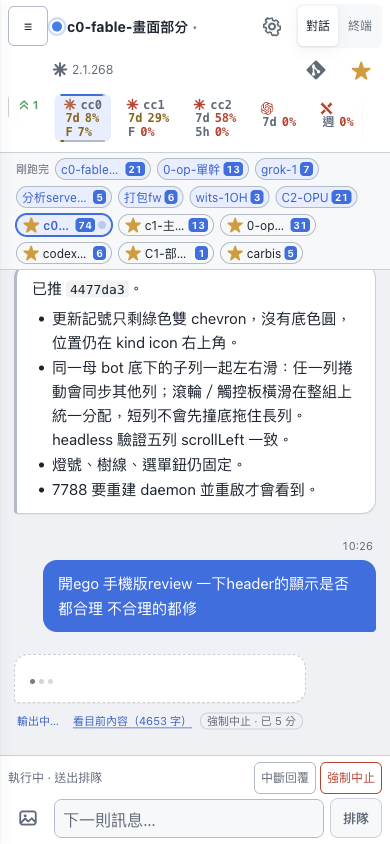
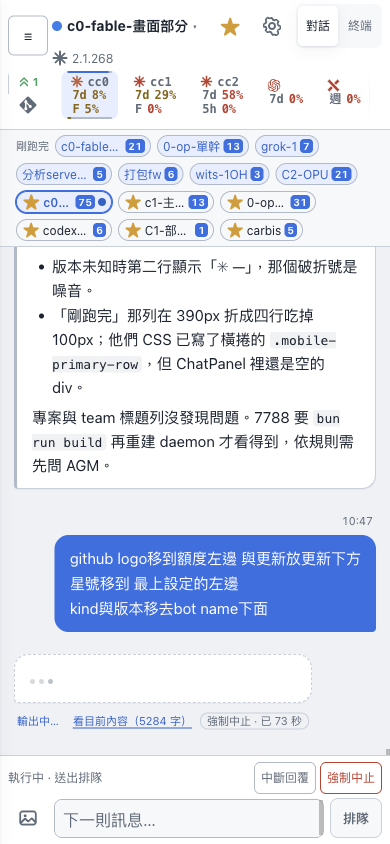
fix(web): 手機 bot 標題列改成使用者指定的位置——★ 在齒輪左邊、git 疊進額度列左下
第一行 ☰、名字、★、⚙、分頁；kind＋版本貼在名字下；git 鍵放額度列最左、「更新」chip
正下方。名字拿回約 150px，標題列高度維持 127px。★ 改成一律排在齒輪前面（桌機同順序），
手機那顆獨立的 PrimaryStar 由別人的 WIP hunk 帶走。

Claude-Session: https://claude.ai/code/session_011uw6Ks6LNLE2KQTyqRPK4w

diff --git a/web/src/components/mobileBotHead.css b/web/src/components/mobileBotHead.css
@@ -1,22 +1,22 @@
 /*
- * 手機（≤640px）bot 標題列的排位（2026-09-11，ego 390px 實測）。
+ * 手機（≤640px）bot 標題列的排位（2026-09-11，ego 390px 實測；同日使用者再調一次位置）。
  *
  * 問題：第一行擠了 ☰、名字、⚙、git、★、對話／終端 六樣，名字只剩 94px，
- * 兩顆 `c0-fable-…` 開頭的兄弟 bot 在標題列上完全分不出來；第二行卻只有
- * 「✳ 2.1.268」61px，右邊整段空著。
+ * 兩顆 `c0-fable-…` 開頭的兄弟 bot 在標題列上完全分不出來。
  *
- * 決策：git 與 ★ 搬到第二行右側（跟版本號同一行），第一行只留 ☰、名字＋⚙、分頁。
- * 名字拿回約 200px。這兩顆都不能砍——★ 只有標題列這一個入口，git 鍵是手機上
- * 開 repo／git／context 列的唯一入口——所以是「換行」不是「讓位」。
- * 齒輪留在名字旁邊：它是名字的設定，不是全域動作。
+ * 位置（使用者指定）：
+ * - 第一行：☰、名字、★、⚙、分頁。★ 在齒輪左邊。
+ * - 第二行：kind 圖示＋版本號，貼在名字底下。
+ * - 第三行：額度列。git 鍵放在額度列最左邊、「更新」chip 的正下方（兩個都是 32px 級的小鍵，
+ *   疊在 54px 高的額度列裡剛好）。
  *
  * 這個檔案只覆寫 `styles.css` 尾端 `.bot-head` 那組 grid 的格位；欄與列的定義也在這裡
- * 重寫一次，才能讓 git／★ 落到第二列。
+ * 重寫一次。
  */
 @media (width <= 640px) {
   .main-head.bot-head {
-    grid-template-columns: 40px minmax(0, 1fr) auto auto;
-    grid-template-rows: auto auto auto auto;
+    grid-template-columns: 40px minmax(0, 1fr) auto;
+    grid-template-rows: auto auto auto;
     gap: 2px 4px;
   }
 
@@ -26,9 +26,9 @@
     align-self: center;
   }
 
-  /* 名字＋齒輪，以及底下那行版本：跨第一、二列，靠上排，第一行跟分頁對齊。 */
+  /* 名字＋★＋齒輪，底下那行 kind＋版本：靠上排，第一行跟分頁對齊。 */
   .main-head.bot-head > .main-title {
-    grid-area: 1 / 2 / 3 / 3;
+    grid-area: 1 / 2;
     justify-content: flex-start;
   }
 
@@ -36,34 +36,53 @@
     min-height: 44px;
   }
 
+  /* ★ 是 `.main-title-row` 的子元素（ChatPanel 在手機把它放在齒輪前面），照 DOM 順序排即可。 */
+  .main-head.bot-head .main-title-row > .primary-star {
+    flex: none;
+    width: 36px;
+    min-width: 36px;
+  }
+
   .main-head.bot-head > .tabs {
-    grid-area: 1 / 3 / 2 / 5;
+    grid-area: 1 / 3;
     align-self: start;
     justify-self: end;
   }
 
+  .main-head.bot-head > .quota-strip {
+    grid-area: 2 / 1 / 3 / -1;
+    position: relative;
+  }
+
+  /* git 鍵疊進額度列左下角：「更新」chip 在左上（18px 高），它在下面。
+     跟齒輪同一種灰：常駐的入口不該長得像警示。 */
   .main-head.bot-head > .mobile-git-info {
-    grid-area: 2 / 3;
-    align-self: center;
-    /* 跟齒輪同一種灰：常駐的入口不該長得像警示。 */
+    grid-area: 2 / 1;
+    align-self: end;
+    justify-self: start;
+    position: relative;
+    z-index: 1;
+    width: 32px;
+    height: 32px;
+    min-width: 32px;
+    min-height: 32px;
+    padding: 2px;
+    margin: 0 0 2px 4px;
     color: var(--text-faint);
   }
 
-  .main-head.bot-head > .primary-star {
-    grid-area: 2 / 4;
-    align-self: center;
+  .main-head.bot-head > .mobile-git-info svg {
+    width: 18px;
+    height: 18px;
   }
 
-  /* 版本那行跟右邊 git／★ 的 40px 鍵垂直對齊。 */
-  .main-head.bot-head .mobile-bot-version {
-    min-height: 40px;
-  }
-
-  .main-head.bot-head > .quota-strip {
-    grid-area: 3 / 1 / 4 / -1;
+  /* 更新 chip 留在左上，底下讓給 git 鍵；chip 的右邊距要夠讓第一格額度不壓到 git。 */
+  .main-head.bot-head .quota-open > .quota-update {
+    align-self: flex-start;
+    margin-right: 14px;
   }
 
   .main-head.bot-head > .mobile-primary-row {
-    grid-area: 4 / 1 / 5 / -1;
+    grid-area: 3 / 1 / 4 / -1;
   }
 }

diff --git a/web/src/components/ChatPanel.tsx b/web/src/components/ChatPanel.tsx
@@ -1271,6 +1271,7 @@ export function ChatPanel({ onOpenSidebar }: { onOpenSidebar: () => void }) {
             {/* Ahead of the badges on purpose: `.main-title-row` clips its own tail when the
                 header is busy, and the settings button is the one thing in here that is not
                 repeated somewhere else — the badges all are. */}
+            <PrimaryStar botId={botId} />
             <button
               type="button"
               className="icon-btn gear icon-tip"
@@ -1281,7 +1282,6 @@ export function ChatPanel({ onOpenSidebar }: { onOpenSidebar: () => void }) {
             >
               <GearIcon />
             </button>
-            <PrimaryStar botId={botId} />
             <PersonaMark persona={bot.persona} />
             <HostBadge host={hostName} connected={hostUp} />
             <UpdateBadge botId={botId} />

diff --git a/docs/UI-DECISIONS.md b/docs/UI-DECISIONS.md
@@ -1012,16 +1012,16 @@ selector 回**純布林**（`.ready.some(...)`）而不是陣列：`updateBatchC
 燈號／名字／齒輪／★，名字完整）、`badge-kept-*`（執行中、在 `busy` 裡 → chip 照留，寫
 `⌃⌃ claude 有更新`）。
 
-## 手機 bot 標題列：git 與 ★ 換到第二行，第一行還給名字（2026-09-11）
+## 手機 bot 標題列：★ 在齒輪左邊、git 疊進額度列左下（2026-09-11）
 
 背景：手機 `.bot-head` 改成 grid 之後，第一行擠了 ☰、名字、⚙、git、★、對話／終端六樣，
-名字只剩 94px——`c0-fable-畫面部分` 與 `c0-fable-調整team` 在標題列上都是 `c0-fable-…`。
-第二行卻只有「✳ 2.1.268」，右邊 300px 空著（ego 390px 實測，截圖在
-`docs/screenshots/mobile-head/`）。
+名字只剩 94px——`c0-fable-畫面部分` 與 `c0-fable-調整team` 在標題列上都是 `c0-fable-…`
+（ego 390px 實測，截圖在 `docs/screenshots/mobile-head/`）。
 
-- **git 與 ★ 搬到第二行右側，不是砍掉**：★ 只有標題列這一個入口，git 鍵是手機上開
-  repo／git／context 列的唯一入口，都不在「有第二份」的可讓名單裡。換行之後名字拿回約 200px，
-  而且不再隨名字長短忽上忽下。代價是標題列高 27px（126 → 153）。
-- **齒輪留在名字旁邊**：它是「這顆 bot 的設定」，跟名字是一組；全域動作（git、★）才下去。
+- **位置是使用者指定的**：第一行 ☰、名字、★、⚙、分頁（★ 在齒輪左邊，桌機也一樣順序）；
+  第二行 kind 圖示＋版本號貼在名字底下；git 鍵放額度列最左邊、「更新」chip 的正下方。
+  兩顆小鍵疊在 54px 高的額度列裡，標題列高度 126 → 127，名字拿回約 150px。
+- **git 與 ★ 都不能砍**：★ 只有標題列這一個入口，git 鍵是手機上開 repo／git／context 列的
+  唯一入口，不在「有第二份」的可讓名單裡。
 - **git 鍵用跟齒輪同一種灰**：常駐入口染成 git 橘會被讀成「這裡有狀況」。
 - 規則獨立放在 `web/src/components/mobileBotHead.css`（`main.tsx` 匯入），只覆寫 grid 格位。
